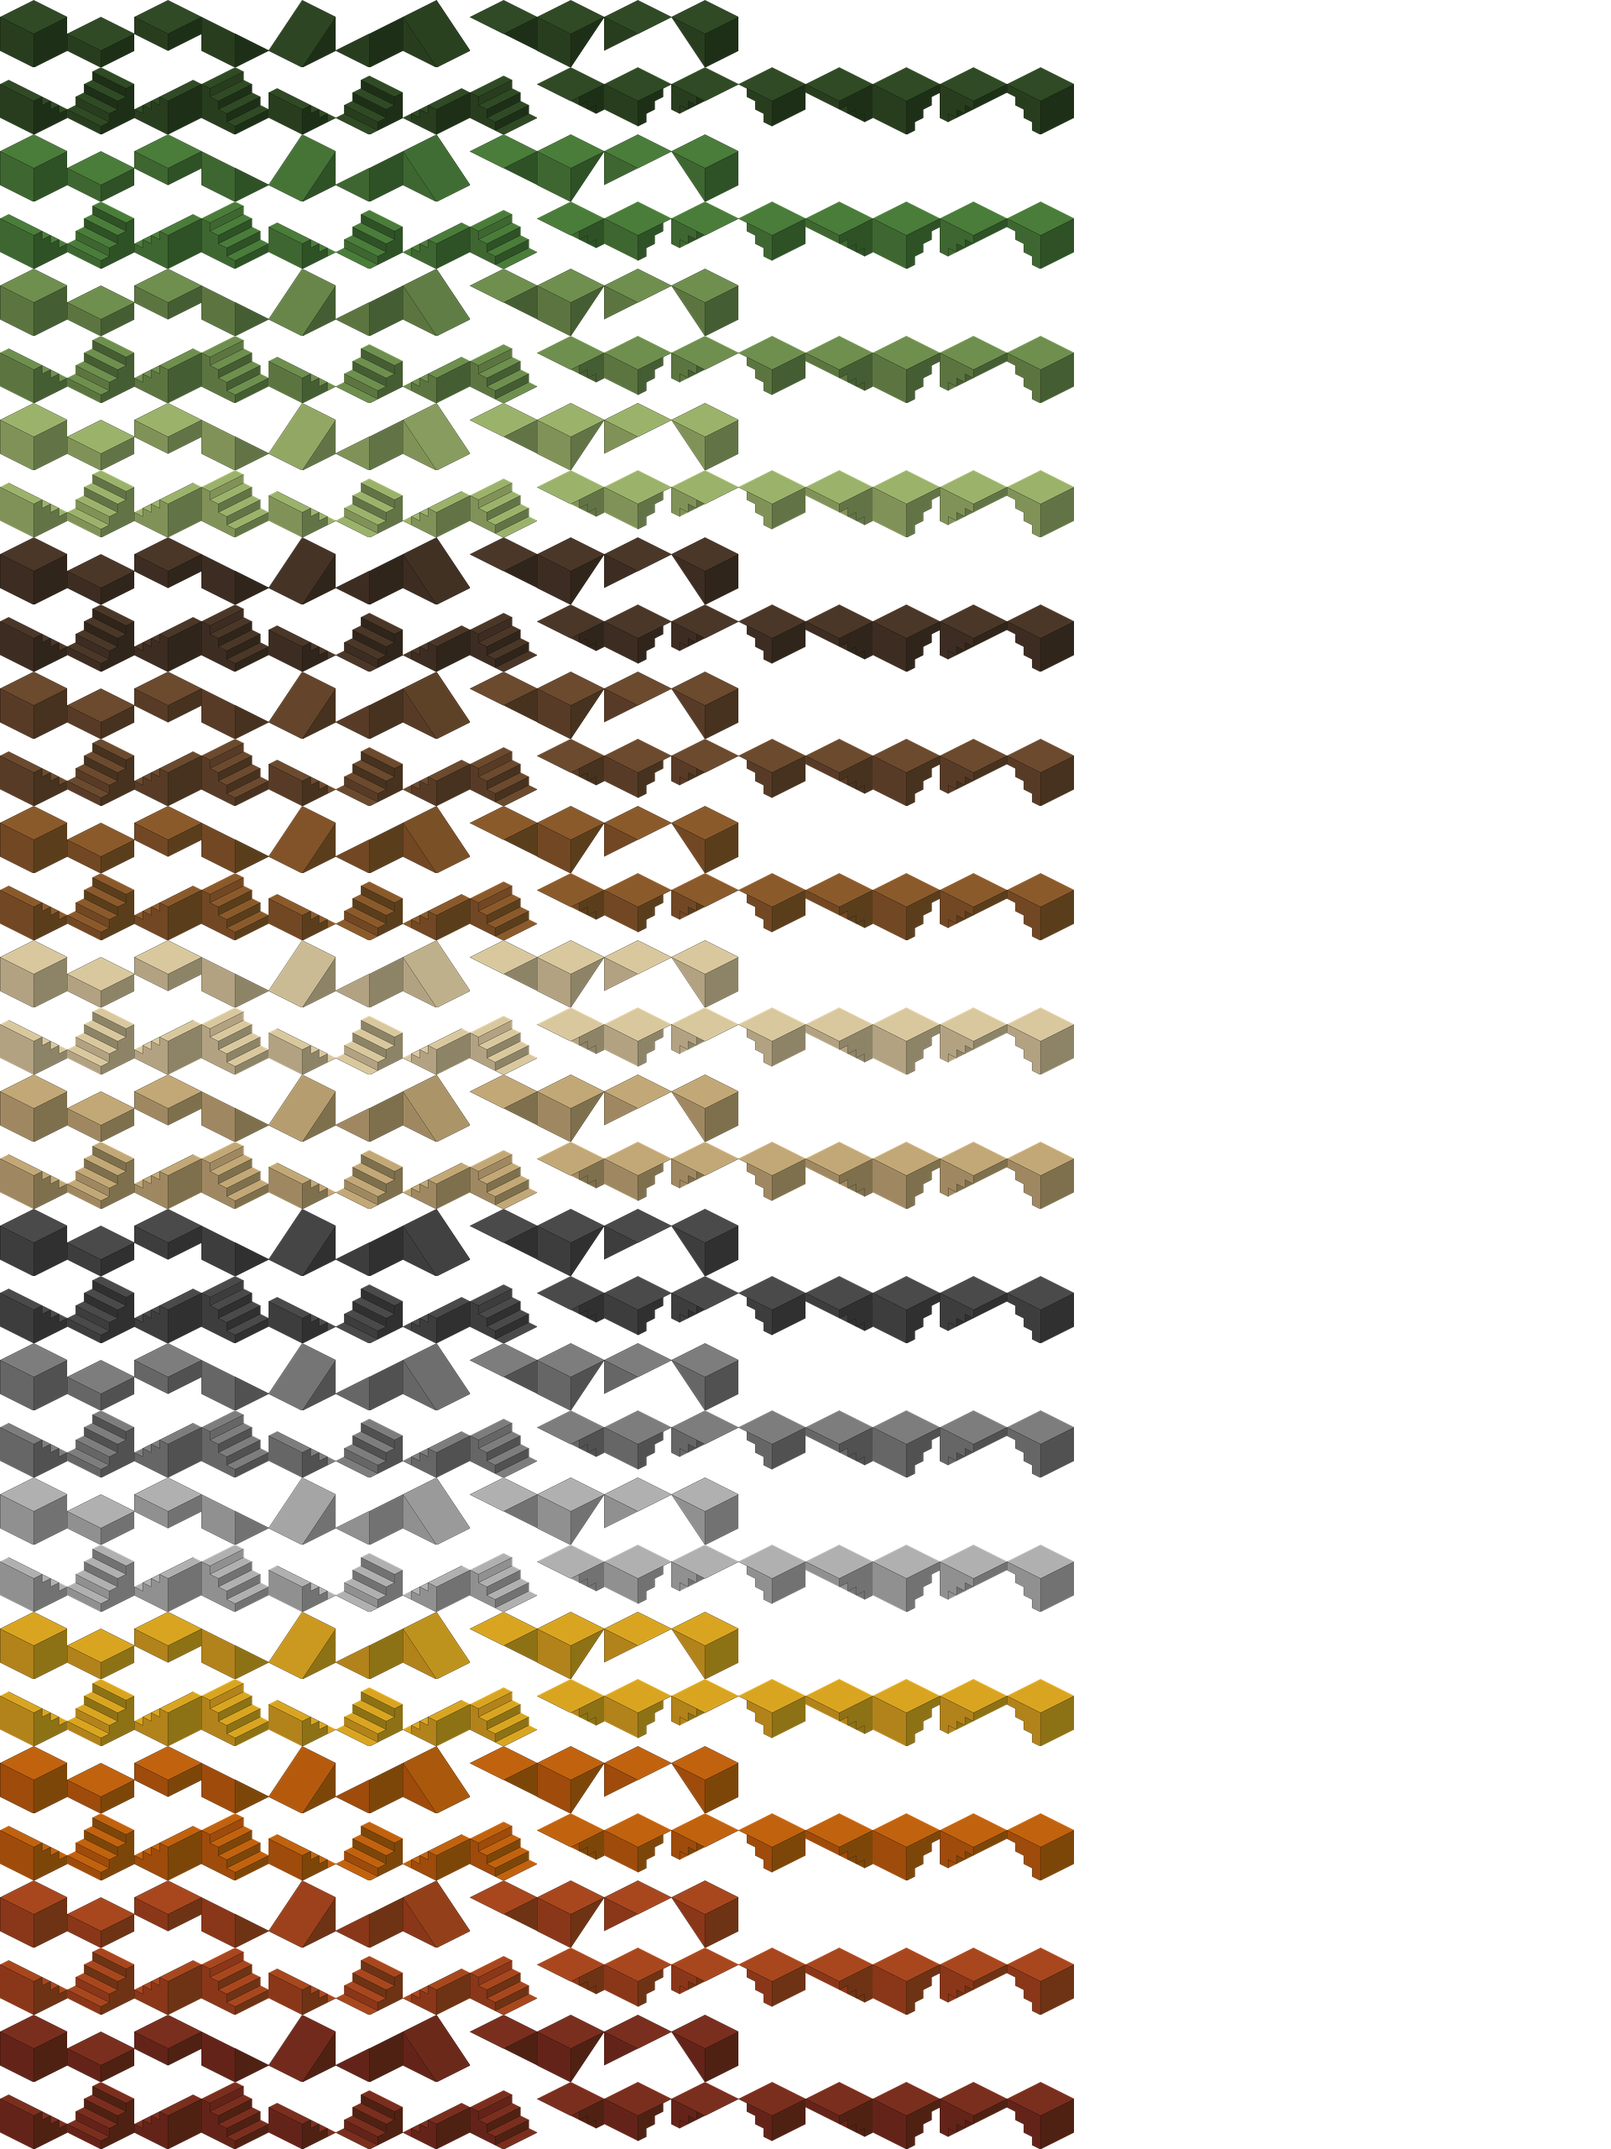
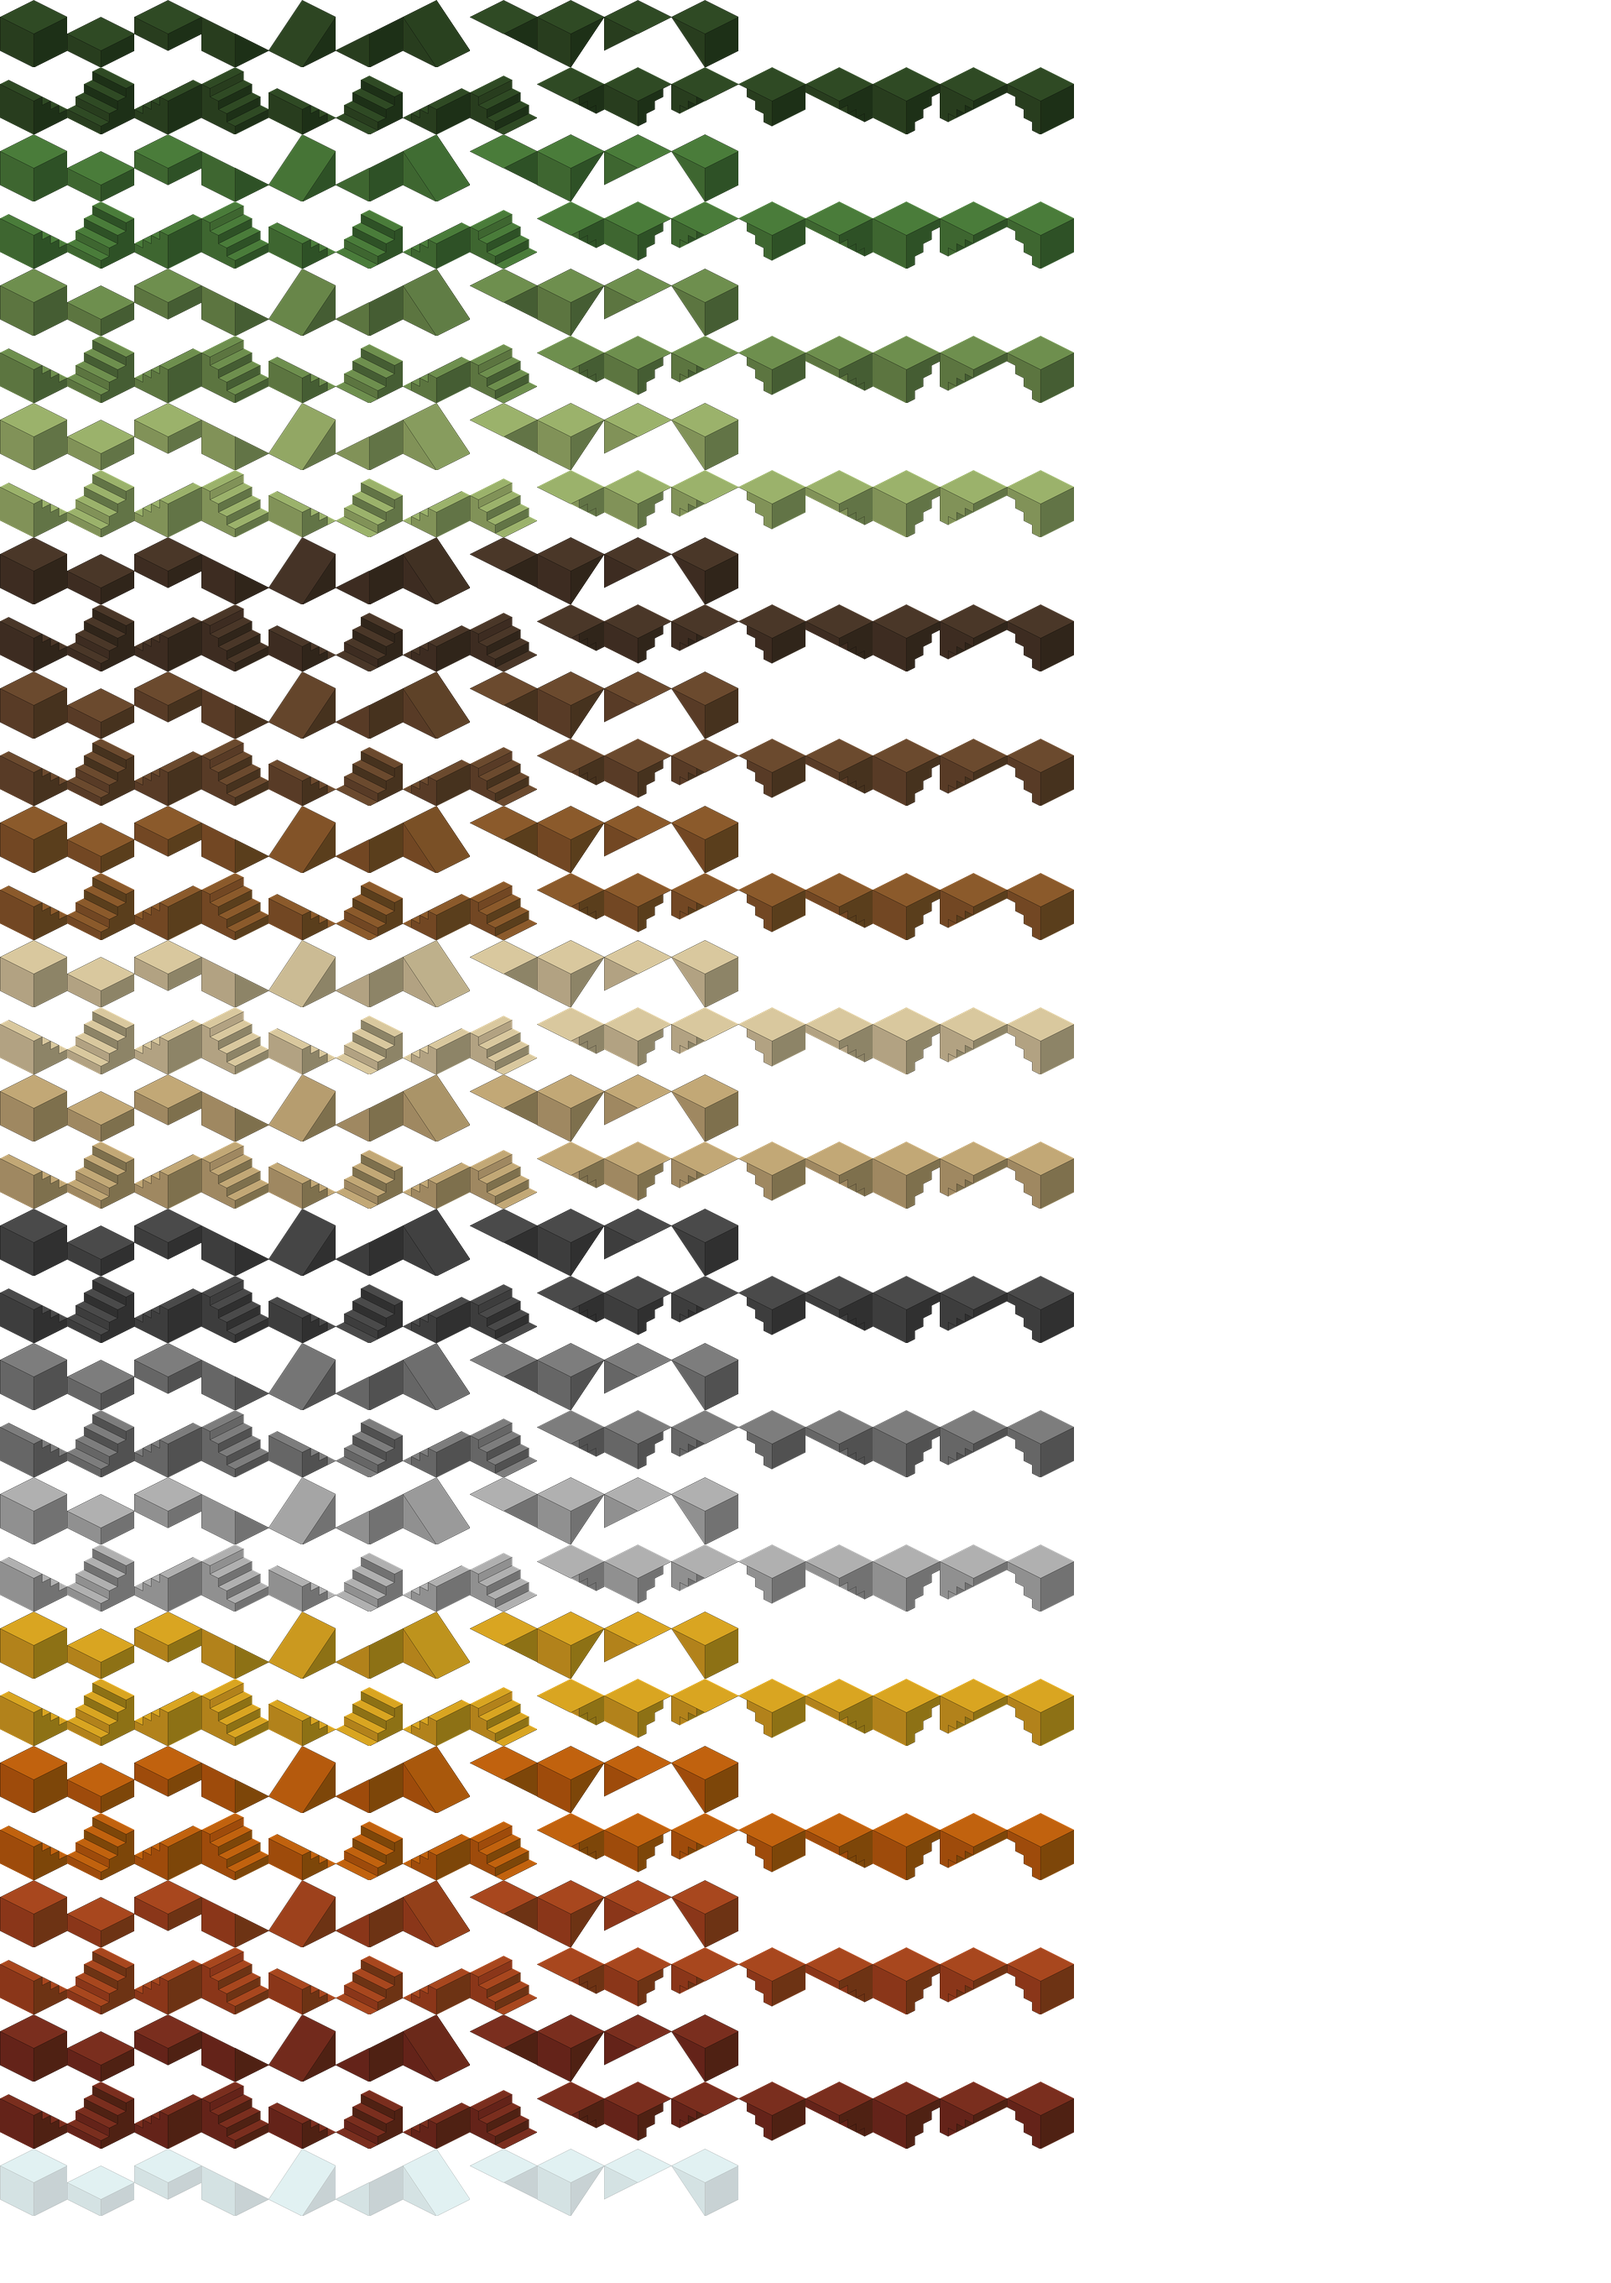
Added glass back

diff --git a/GenerateTiles/merge_tiles.py b/GenerateTiles/merge_tiles.py
@@ -3,7 +3,7 @@ from PIL import Image
 
 # --- CONFIGURATION ---
 TILE_SIZE = 80
-N_SETS = 16  # Maximal number for N
+N_SETS = 17  # Maximal number for N
 ROW_LEN = 24  # Minimum row length (0 means it defaults to the longest list)
 
 LIST1 = ["box", "half", "up-half", "slope-x0", "slope-x1", "slope-y0", "slope-y1", "up-slope-x0", "up-slope-x1", "up-slope-y0", "up-slope-y1"]
